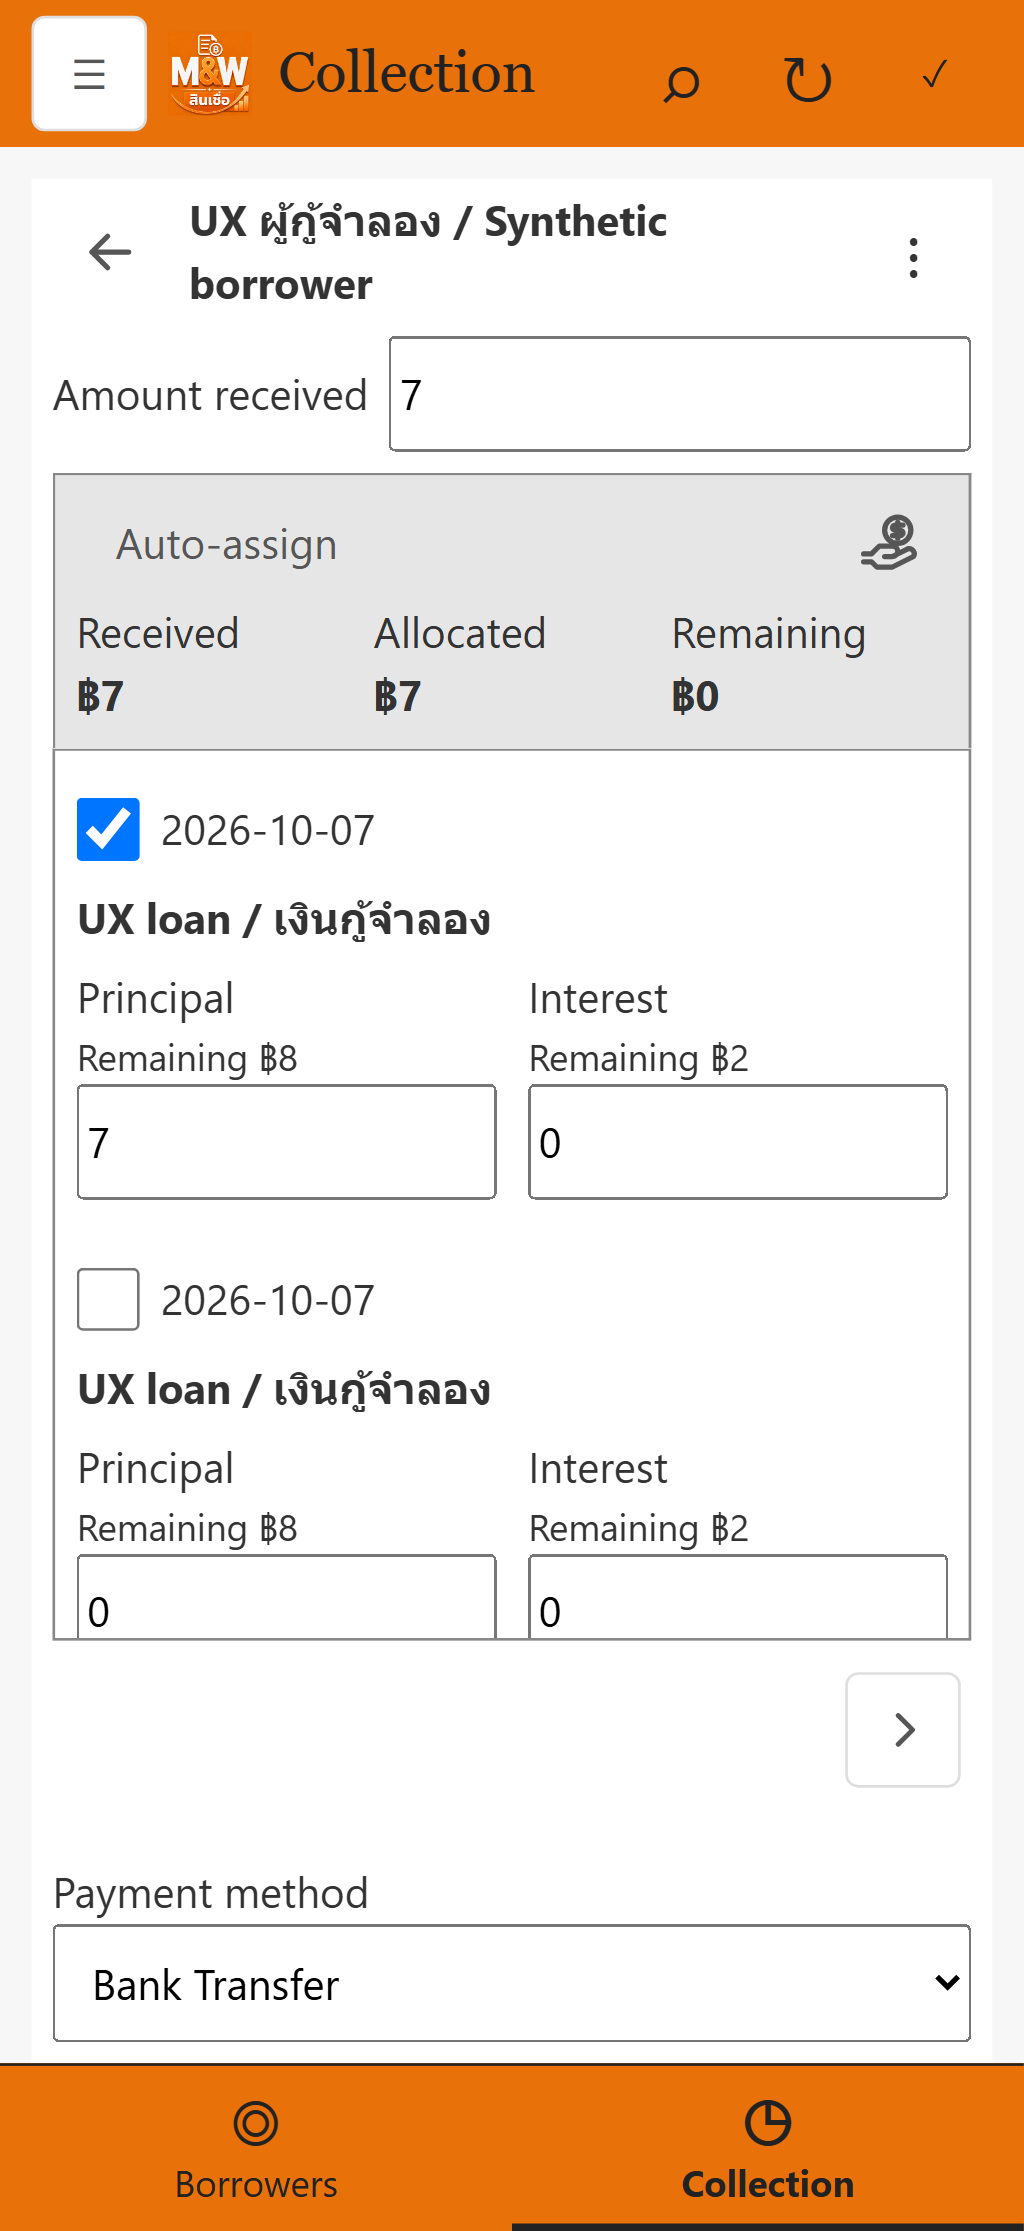
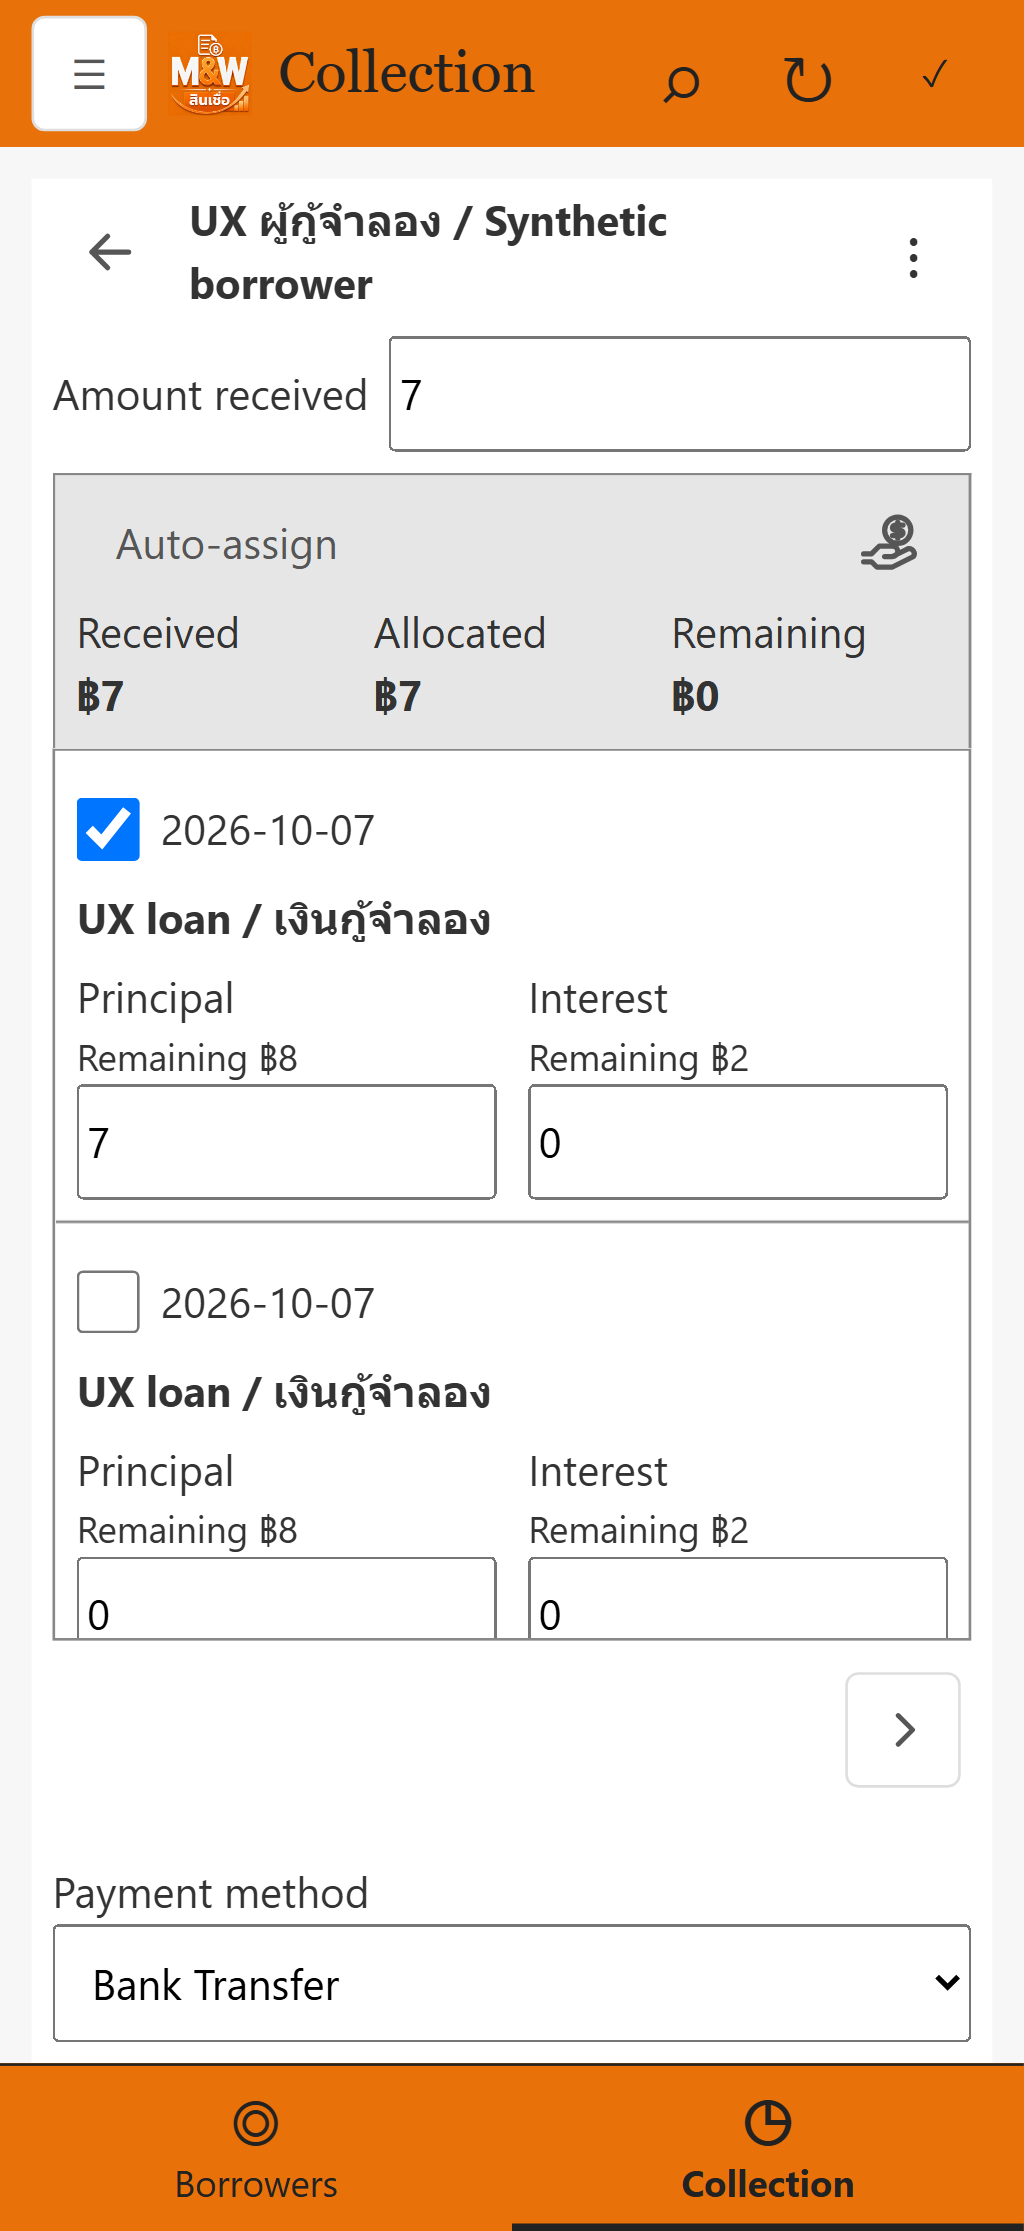
docs: close verified DEV82 unified receiving checkpoint

diff --git a/outputs/r052-unified-receiving/batch.md b/outputs/r052-unified-receiving/batch.md
@@ -1,25 +1,21 @@
 # R052 unified amount-first receiving — 8 October 2026 (Bangkok)
 
-Preparation only; no live mutation. Owner approved the next checkpoint. A settles the design/executable test plan; B owns financial contract/API/UI and the coordinated higher immutable migration; C independently verifies; D owns recovery, maintained delivery, evidence/docs/publication. Reuse the four existing workers.
+The agreed Phase5 receiving checkpoint is implemented, tested, deployed and read-only verified in DEV. Owner hands-on acceptance remains pending; this does not complete all Phase5. R052 remains the sole Open release. No live financial write, receipt upload, CAS or new test fixture was made by this batch. PROD V77, AppSheet definitions, notifications, reader and existing identity/storage configuration are unchanged.
 
-Scope: one amount-first PWA receiving flow, Auto preserving the agreed newest-due-first/interest-first behavior and exact manual principal/interest allocation. Owner architecture revision: implement a separate new PWA unified payment engine; preserve the existing AppSheet legacy engine. Database trigger routing must dispatch by authoritative payment origin, not a UI/client guess. Legacy retirement is deferred until AFTER production cutover, not part of this batch. Financial/backend/database changes require their relevant full validation; existing tender/replay/audit/recovery behavior must remain compatible. No new table/column approval is inferred. No PROD, notifications or ordinary agent financial writes. Any actual synthetic proof needs an exact reviewed fixture/action/recovery plan under existing scoped authority.
+Owner decision: Auto uses newest-due-first/interest-first; manual allocation records exact principal/interest. A separate PWA v6 engine handles authoritative retained-journal origin. The dispatcher preserves AppSheet/v3–v5 legacy routing. V82 adds routines/trigger only, no tables or columns. [Design and executable tests](../r052-unified-receive-payment/design-and-test-plan.md), [independent verification](independent-verification.md), [live read-only smoke](live-readonly-smoke.md) and [one delivery manifest](delivery-manifest.json) own exact scope, source hashes, checks and limits. Existing four workers were reused; unrelated CI/process changes and the primary PM checkout were preserved.
 
-## Baseline and recovery
+## Delivery and checks
 
-App e2549d18dcfa1d79244b9f1280dc338ca8c8e1a9 on codex/r052-review-shell; PM5a72a84066690c4214b80fdb5d6e0a13ed271c80 on codex/pwa-implementation-plan. R052 remains the sole Open release. Preserve unrelated CI/process changes and the primary PM checkout.
+Starting app e2549d1 and PM5a72a840 were retained as repository rollback points. Final executable/frontend source8803b6d passed full Development37800625921 and Database37800626024. Independent full V1–V82 financial20/20 passed; maintained Test-CI passed with owned clusters stopped. Responsive/recovery checks and the final strict 320px correction passed, followed by full Linux CI. Earlier CI failures and precise fixes remain in the owning log/manifest; interim executions are not summed as unique tests.
 
-Current recorded live pins: DEV loan_manager_dev V81, command mw-credit-app-command-dev-00003-gcl/image sha256:f83f4b9facef7b652afb5a39045a8e65ece890abca9010d25c9206efd5ec2d57; frontend d0581b3/Hosting879d75b2e91a0b85. PROD V77 remains unchanged. These are retained prior verified observations, not a new live audit. Directory head81; V82 was absent at preparation. A confirmed V82 reserved to B for unified explicit allocation command/engine compatibility; no new table/column planned. Preserve all applied migration bytes.
+Unchanged command code built373aec1 produced image40346325; final frontend built8803 produced index-2YJpeEdU.js. Fresh DEV81 backup and owned restore were refreshed immediately before apply at2026-10-08T15:34:03.2890402Z (81 history rows/24 tables); recovery stays private. Maintained DEV82 migrate/reconcile/validate succeeded, exact original operator membership/schema ACLs were restored, and runtime journal/owner/creator restrictions remained intact. The unchanged nonsuperuser V79→V80 maintenance lifecycle proof is explicitly reused, not described as a local V82 proof.
 
-Before sensitive apply, capture fresh current DEV backup/restore through Backup-DevActivation.ps1, then use Invoke-DevCommandDatabase.ps1 with pinned clean ExpectedCommit, private CandidateEvidence/BackupReference, ExistingPackage and reviewed Apply. The established closed Cloud SQL grantor maintenance lifecycle restores exact original memberships/schema ACLs on success/failure; verify current tuple/authority and current protected routine requirements. Do not reuse a stale DEV80 backup or blindly restore over later owner payments. Build immutable command/frontend artifacts from the checked source; apply only reviewed changed-component Terraform/config and maintained Hosting delivery. Use the existing maintained delivery/recovery route; extend it only for a concrete new object/authority requirement identified by the revised design. Before apply, verify the router/new-engine migration is compatible with the existing AppSheet route, readers, original v3/v4/v5 replay and the retained old command/frontend rollback pins. Rollback of code must not reinterpret or resend committed PWA payments; new engine/origin provenance and replay/status must remain valid. C verifies both routes and the relevant rollback/read compatibility. No speculative infrastructure change is planned.
+Reviewed image-only Terraform plan0add/1update/0destroy applied. Command00004-h44 is Ready; health200 and anonymous status401 passed. Hosting416c250e14e60e61/release1791474204919000 is deployed. Final Terraform plan is a no-op; affected dictionary routines/index validate1545 documents with zero errors. C observed the exact bundle and preserved owner authentication, saved synthetic draft and prior Posted history; an untouched normal eligible read rendered principal/interest fields. No new financial operation was exercised live.
 
-## Current handoff and closeout
+## Recovery and limits
 
-[A design and executable tests](../r052-unified-receive-payment/design-and-test-plan.md) are frozen; V82 reservation is confirmed and relayed to B. Phase5 unified receiving is in progress, not implemented. B/C source is not frozen; B is addressing the per-charge query loop and UI while C executes independent checks against the revised separate-engine contract. No live apply/deployment has occurred; recorded candidate checks will be attributed at freeze rather than assumed. Once frozen: relevant independent financial/replay/identity tests, maintained Test-CI and full exact-source Development/Database CI precede sensitive DEV delivery. Reuse unchanged proof explicitly; add a test only for a changed risk. Store final source/artifact/config/results once in this directory's manifest and link it from PM progress and owning records. Owner review follows deployed verification; acceptance is not implementation completion.
+Retain both DB engines/dispatcher through frontend rollback. After v6 payments exist, retain v6-capable API status/history/pending recovery; do not blindly restore a v5-only API without compatibility proof. Code rollback does not undo SQL or financial writes, and the private logical backup must not overwrite later owner payments.
 
-Actual metrics remain pending source/design handoffs; tokens unavailable. Do not infer durations or savings. Stop after the agreed checkpoint, relevant passing checks and one documentation/publication closeout.
+Metadata/receipt and compatible account/tender/date correction preserve the original v6 split. Changes to borrower, total, selected IDs, target references or allocation method fail atomically; revised financial plans need a later native correction workflow. Legacy retirement after cutover requires governed historical AppSheet/v3–v5 correction/replay compatibility, preserving audit/journal/history; client retirement alone does not authorize function deletion. Notifications remain Phase8.
 
-## Recovery preparation result
-
-Fresh current DEV81 dump and owned local restore passed at2026-10-08T14:53:39.8685908Z:81 history rows/24 public tables, dump SHA256 bd7d6a89b16d3308cf8bd88ea4af4d461c04c17d42d21aedebc9d9eeae1b6630. Schema/data restore excludes live ownership/ACL replay; policy names are local NOLOGIN only. Owned cluster stopped; recovery remains private. Refresh if intervening owner work makes it stale. Maintained Test-CI now calls the existing Run-UnifiedReceiving runner alongside retained financial/operator checks; no broad run yet because candidate is not frozen.
-
-Future retirement criterion (not a current implementation gate): after AppSheet cutover, retire the legacy engine only when historical AppSheet/v3–5 payment correction/replay is handled by the new engine or a governed historical path. Preserve audit, journal and history; client retirement alone does not authorize deleting the function.
+Local request timing samples are labelled local store observations, not cold/warm/cloud/browser performance or query-count proof. Tokens and unavailable timings are not inferred. Stop at this checkpoint for owner hands-on review.

diff --git a/outputs/r052-unified-receiving/independent-verification.md b/outputs/r052-unified-receiving/independent-verification.md
@@ -43,3 +43,15 @@ Top screenshots `independent-top-{desktop,mobile}-chromium-{1440,390,320}-{en,th
 A caught persisted plan_changed incompatible with the journal constraint; B corrected durable rejection to selection_unavailable, verified by actual stale submissions/replay. C caught optimized SQL alias line colliding with its PL/pgSQL variable, making v6 commands Unknown; B qualified entries.item, and the complete final matrix passes. Missing Auto replacement confirmation was implemented and dismissal verified. Test-only fixture assumptions (CAS on financially changed source, inactive-account required fields/code, immutable-child tamper, line ordering, offline workspace navigation and mobile detail destination) were corrected without weakening product guards or disabling triggers.
 
 No known application defect remains in this independent scope. Exact-candidate full Development/Database CI, true non-superuser migration-maintenance proof, fresh recovery, authorized DEV apply and deployed owner smoke belong to D/root and remain separately reported. Do not interpret this synthetic verification as deployed Phase5, owner acceptance or production readiness. No unchanged broad suite was rerun by C outside the affected financial/UI batch.
+
+## Narrow CI portability correction
+
+The first full Linux Development run exposed five320px overflow cases (323px) and two Collection error tests still calling the removed ready nested Upcoming refresh. This invalidated Linux readiness; prior Windows passing screenshots were not a portability proof. Database CI and the independent optimized20/20 financial proof remain valid: no backend/SQL change or new financial suite was run for this correction.
+
+B measured the native receipt file picker intrinsic width294px versus its280px containing area on Windows; native font/control metrics can expand differently on Linux. The scoped rule is `.selected-payment input[type=file]{display:block;width:100%;max-width:100%;min-width:0}`. It fits the control, with no clipping/overflow-hidden workaround, tolerance or skip. Summary tracks fit; C's earlier tentative summary-text diagnosis was not the measured cause. B-owned error-recovery now starts Upcoming failure through the existing topbar First charges page / refresh and resolves the error-only Retry Upcoming Charges. The fixture keeps unrelated Charges successful because global refresh fetches both children.
+
+C independently executed the frozen correction on Windows: `node node_modules/@playwright/test/cli.js test tests/e2e/receiving-ux-independent.spec.ts tests/e2e/unified-receiving-independent.spec.ts tests/e2e/payment-command.spec.ts tests/e2e/error-recovery.spec.ts --grep '320px|G06|Collection reference copying|Collection detail' --project=desktop-chromium --project=mobile-chromium --workers=1`: **8/8 PASS**. Exact selected scope was four C strict320px geometry cases, two maintained G06 bilingual320/390/desktop cases and two Collection reference-copy/scoped-manual-recovery cases. Body/document width bounds are unchanged. C inspected refreshed320px mobile EN/Thai top screenshots: amount/summary remain readable and visible, charge rows and inputs fit. No additional broad UI or financial rerun followed.
+
+B separately reported its maintained10 affected tests/build passing; the final two Collection child-error/late-route cases exercise global header refresh → Upcoming503 → error-only Retry → successful recovery, with corrected fixture. Attribute this B execution separately from C's eight checks. Final CSS SHA2562182d6b4a355ed559040d568ed4275b7952d2a06268d6772fb27ecc31afb9eb1; maintained error-recovery test SHA25695ba06dedf64e938b0ff7a454bed489971ed1aed6773b75b072f469f18ecaf7b. Source manifest updated only these affected pins and labelled portability scope.
+
+The corrected exact-source full Linux Development CI remains mandatory and pending at this C handoff. Local Windows passing tests do not close that platform gate or authorize DEV apply. D/root own remote result and delivery. No live operation occurred.

diff --git a/outputs/r052-unified-receiving/live-readonly-smoke.md b/outputs/r052-unified-receiving/live-readonly-smoke.md
@@ -1,0 +1,14 @@
+# Deployed owner read-only smoke — 2026-10-08
+
+Canonical DEV https://dev-lm.mw-credit.com/, existing owner Chrome browser 4 / tab 304619538. D deployment pin: frontend 8803, Hosting version 416c250e14e60e61 / release 1791474204919000; API mw-credit-app-command-dev-00004-h44; DEV82. Ordinary reload and visible Update and reload loaded observed script /assets/index-2YJpeEdU.js. Sign out remained visible after authentication settled; no fresh login or storage reset.
+
+## Observed read-only behavior
+
+- Saved R052 P4 synthetic draft opened with existing Thai Notes and dedicated account intact. Amount received, Auto-assign, Received/Allocated/Remaining, Payment allocation and exact Bank Transfer / Cash / Net-off at Disbursement choices appeared. Paid fixture has zero allocation rows and disabled Auto/Review.
+- Synthetic Collection detail and Payment history loaded the previously Posted 2-baht record, manual receipt indicator and Payment details entry. No new posting or metadata update.
+- Normal Collection read navigation opened an existing eligible borrower without a destructive prompt. Receive selected charges rendered 25 Principal and 25 Interest textboxes from the live read API, Amount received and the same three methods. No identity, amounts, component values or ordinary borrower screenshot is included here. Untouched default amount left Review disabled. Back to Collection removed the form and owner Sign out remained visible.
+- Native desktop DOM width 1994 equalled body scrollWidth 1994. No manual Save/Discard controls in synthetic form; no Loading/Checking/Confirming row in the settled form body. No viewport override was used.
+
+## Scope and limits
+
+No amount/Notes/method/checkbox edit, Auto-assign, Review, Confirm, upload, CAS, financial command, token/auth-store inspection or draft clearing. Saved synthetic draft was read without edits. Only search text was changed for read navigation. No private screenshot published. This verifies deployed read navigation and amount-first/component rendering; it does not claim new live financial execution, measured live review latency, transient header concurrency, mobile layout, offline restart or allocation-row interaction. Those remain the explicitly labelled controlled SQL/browser/SDK evidence. Corrected Linux CI pass is D/root evidence, not this owner-browser check.

diff --git a/Change Logs/CHANGE_NOTES_R052_UNIFIED_RECEIVING_2026-10-08.md b/Change Logs/CHANGE_NOTES_R052_UNIFIED_RECEIVING_2026-10-08.md
@@ -14,3 +14,7 @@ Frozen product373aec1 is published; fullCI running and exact clean image/fronten
 
 FullDevelopment dbae failed seven cases: five320px native-file-control overflow cases and two obsolete Upcoming refresh selectors; Database37799074532 and maintainedTestCI passed. B constrained the native file control to its parent width without clipping/tolerance changes and adapted scoped global-header/errorRetry recovery tests. Relevant10 affected cases/build passed; C strictgeometry/recovery independent rerun active. Only frontendCSS/test changes; backend image built373aec1 and passing unchanged financial/DB proof are reused explicitly. Corrected full Linux Development remains required before any apply/deploy.
 
+
+Final corrected source8803 passed full Development37800625921 and Database37800626024. Clean frontend8803 rebuilt; unchanged backend image40346325 retains source373aec1. Fresh DEV81 recovery refreshed/restore-verified immediately before apply; DEV82 migrate/reconcile/validate and exact original operator/schema ACL restoration passed. Image-only plan0add/1update/0destroy applied, command00004-h44 Ready (health200/anonymousstatus401), Hosting416c250e14e60e61 deployed. Current catalog/dictionary describes dispatcher/new engine/legacy guard and v6 correction limits; no new table/column/permission expansion. Read-only owner smoke pending; no live financial write/upload/CAS this batch. Owner acceptance and wholePhase5 completion are separate.
+
+Closeout: C deployed owner-session read-only smoke passed on exact index-2YJpeEdU.js; saved synthetic draft/history were preserved and normal eligible principal/interest fields rendered without edits or financial command. Final Terraform no-op and dictionary1545/zero-error validation passed. Phase5 receiving checkpoint is ready for owner hands-on review, not allPhase5 completion or owner acceptance. Source correction and v6-capable rollback limitations are linked in the canonical manifest/batch.

diff --git a/outputs/r052-unified-receiving/README.md b/outputs/r052-unified-receiving/README.md
@@ -1,0 +1,7 @@
+# Unified receiving in DEV
+
+Open [DEV](https://dev-lm.mw-credit.com), choose a borrower in Collection, then Receive. Enter the amount and use Auto-assign or exact principal/interest entries; check the summary, account, payment method, date and receipt before Review/Confirm. Online review refreshes current values. Existing requests retain their original replay/status identity.
+
+The separate PWA v6 engine and retained AppSheet legacy engine are active in DEV82. [Delivery pins](delivery-manifest.json) · [Financial/UI verification](independent-verification.md) · [Deployed read-only check](live-readonly-smoke.md) · [Design](../r052-unified-receive-payment/design-and-test-plan.md).
+
+Owner hands-on acceptance is pending. This batch made no live financial writes. Financial proof uses the labelled disposable database/browser tests; deployed smoke was read-only. Revised posted amount/borrower/allocation plans are not a native correction workflow yet. PNG/JPEG receipts are supported, not HEIC. Offline authorization/viewed snapshots last up to24 hours; unsent drafts remain until discard/post/sign-out and never auto-submit on reconnect. Notifications remain Phase8. PROD is unchanged.
